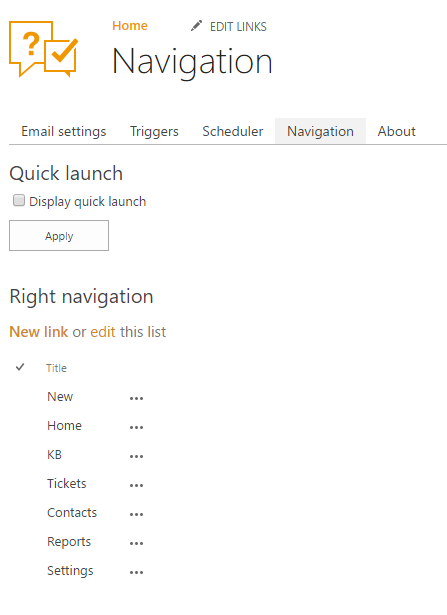
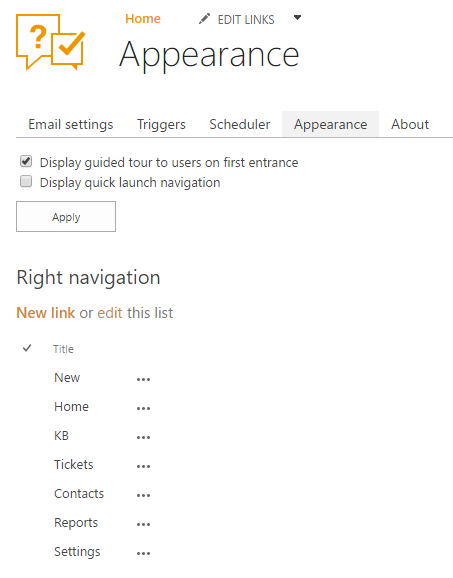
Changes in docs

diff --git a/source/Configuration Guide/Appearance.rst b/source/Configuration Guide/Appearance.rst
@@ -1,4 +1,4 @@
-Navigation
+Appearance
 ##########
 
 You can hide or display the SharePoint out of the box quick launch bar
@@ -8,7 +8,7 @@ Navigate to settings using the icon in the navbar:
 
 |SettingsIcon|
 
-Then click on the “Navigation” tab. Now you can see the quick launch
+Then click on the “Appearance” tab. Now you can see the quick launch
 display setting and a list of HelpDesk navigation elements.
 
 |navigationsets|

diff --git a/source/index.rst b/source/index.rst
@@ -36,7 +36,7 @@ All documentation articles
       Configuration Guide/Email settings
       Configuration Guide/Triggers
       Configuration Guide/Scheduling
-      Configuration Guide/Navigation
+      Configuration Guide/Appearance
       Configuration Guide/Color theme
       Configuration Guide/Statuses customization
       Configuration Guide/Reports customization
